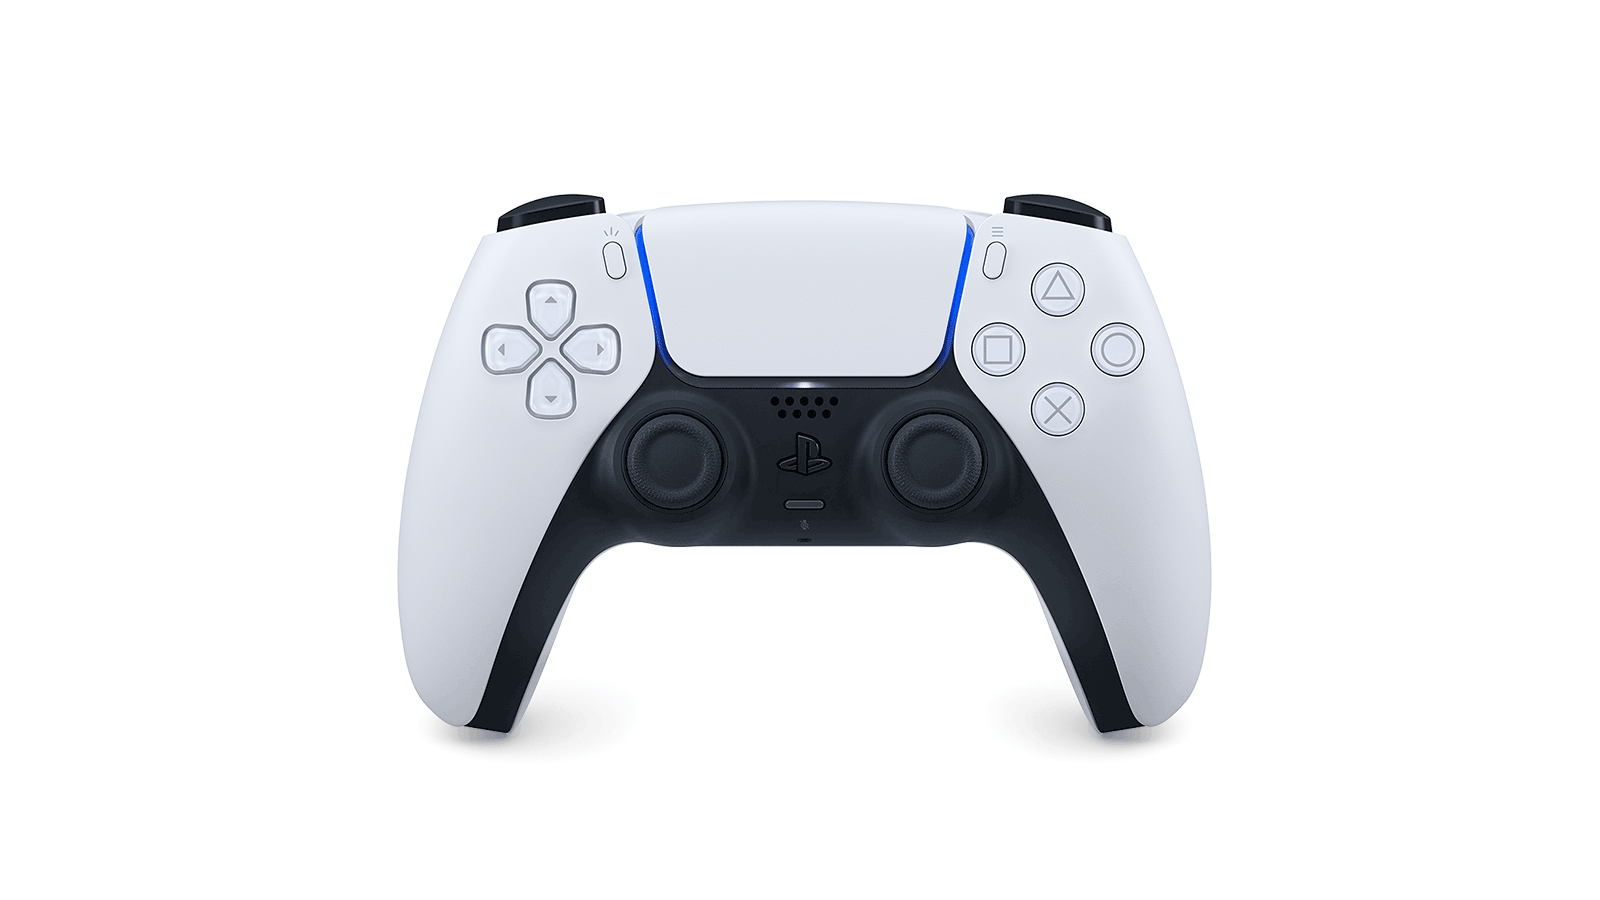
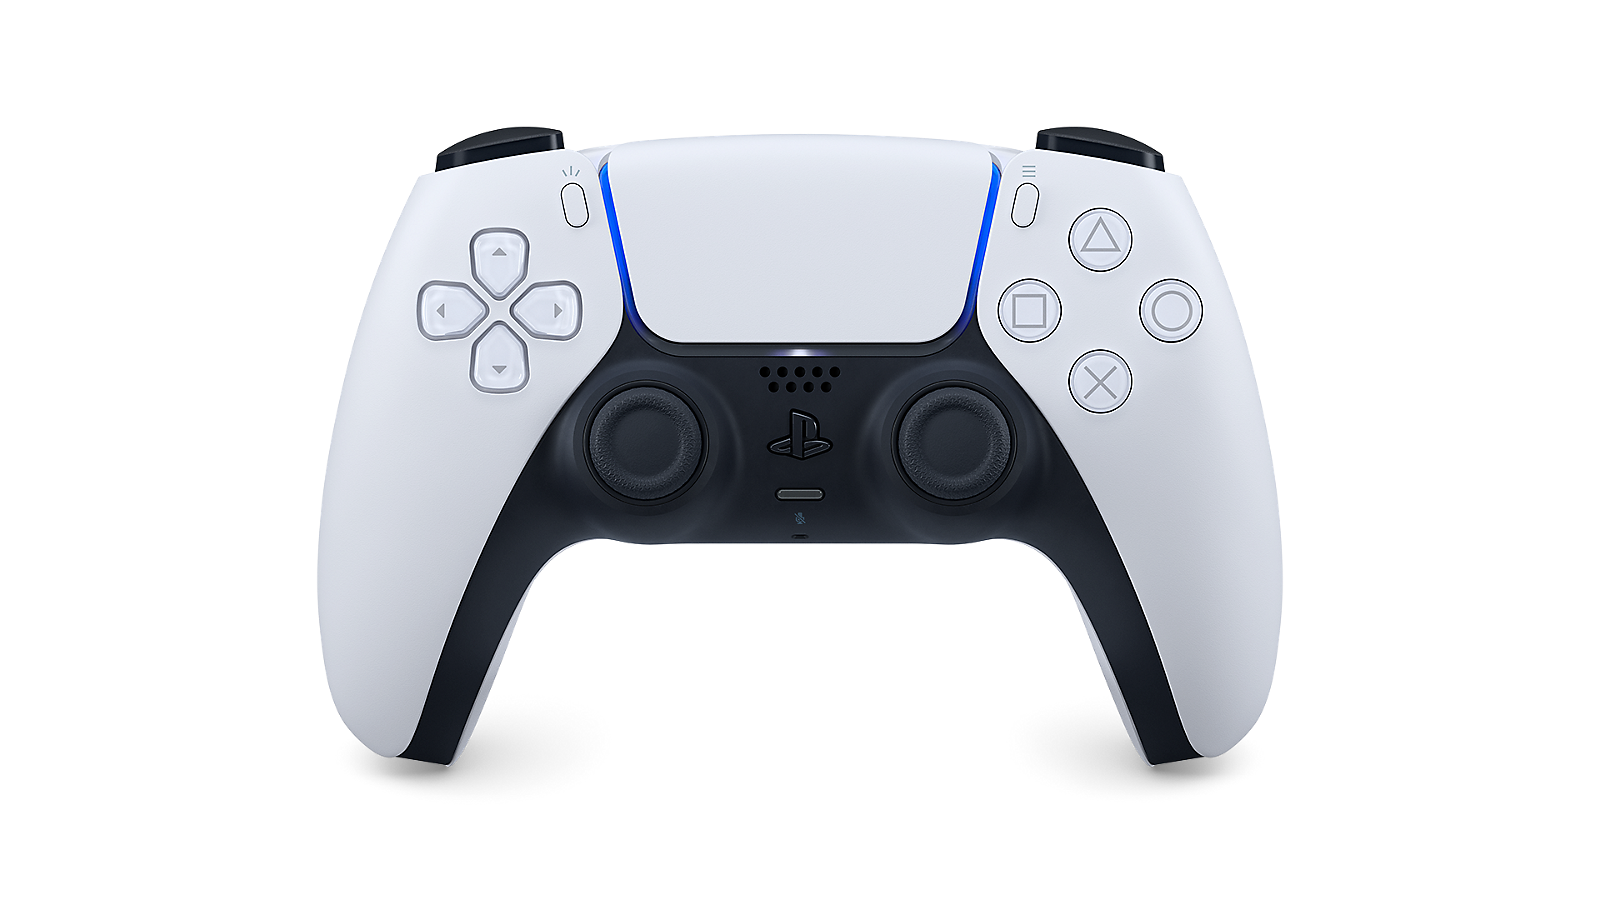
fix(usb): improve controller artwork and trigger scaling

Changed region(s): [[0.1875, 0.1244, 0.8125, 0.8711]]

diff --git a/Sources/GHDS/Views/GamepadArtwork/GamepadArtwork.swift b/Sources/GHDS/Views/GamepadArtwork/GamepadArtwork.swift
@@ -56,23 +56,23 @@ enum GamepadArtworkCatalog {
     private static let dualsense = GamepadArtworkSpec(
         imageName: "dualsense", referenceSize: CGSize(width: 1600, height: 900),
         regions: [
-            .leftStick: CGRect(x: 610, y: 400, width: 125, height: 125),
-            .leftStickCap: CGRect(x: 635, y: 425, width: 75, height: 75),
-            .rightStick: CGRect(x: 875, y: 400, width: 125, height: 125),
-            .rightStickCap: CGRect(x: 900, y: 425, width: 75, height: 75),
-            .dpad: CGRect(x: 475, y: 275, width: 155, height: 155),
-            .faceNorth: CGRect(x: 1030, y: 255, width: 75, height: 75),
-            .faceEast: CGRect(x: 1090, y: 320, width: 75, height: 75),
-            .faceSouth: CGRect(x: 1030, y: 385, width: 75, height: 75),
-            .faceWest: CGRect(x: 965, y: 320, width: 75, height: 75),
-            .shoulderL: CGRect(x: 430, y: 165, width: 110, height: 55),
-            .shoulderR: CGRect(x: 1060, y: 165, width: 110, height: 55),
-            .triggerL: CGRect(x: 450, y: 120, width: 90, height: 55),
-            .triggerR: CGRect(x: 1060, y: 120, width: 90, height: 55),
-            .back: CGRect(x: 585, y: 220, width: 50, height: 65),
-            .start: CGRect(x: 965, y: 220, width: 50, height: 65),
-            .guide: CGRect(x: 760, y: 420, width: 80, height: 80),
-            .touchpad: CGRect(x: 640, y: 200, width: 320, height: 180),
+            .leftStick: CGRect(x: 568, y: 372, width: 148, height: 148),
+            .leftStickCap: CGRect(x: 596, y: 400, width: 92, height: 92),
+            .rightStick: CGRect(x: 884, y: 368, width: 148, height: 148),
+            .rightStickCap: CGRect(x: 912, y: 400, width: 92, height: 92),
+            .dpad: CGRect(x: 408, y: 220, width: 188, height: 188),
+            .faceNorth: CGRect(x: 1064, y: 196, width: 92, height: 92),
+            .faceEast: CGRect(x: 1136, y: 276, width: 92, height: 92),
+            .faceSouth: CGRect(x: 1064, y: 352, width: 92, height: 92),
+            .faceWest: CGRect(x: 988, y: 276, width: 92, height: 92),
+            .shoulderL: CGRect(x: 435, y: 126, width: 130, height: 46),
+            .shoulderR: CGRect(x: 1035, y: 126, width: 130, height: 46),
+            .triggerL: CGRect(x: 435, y: 126, width: 130, height: 46),
+            .triggerR: CGRect(x: 1035, y: 126, width: 130, height: 46),
+            .back: CGRect(x: 540, y: 160, width: 60, height: 76),
+            .start: CGRect(x: 988, y: 156, width: 60, height: 84),
+            .guide: CGRect(x: 748, y: 396, width: 92, height: 92),
+            .touchpad: CGRect(x: 604, y: 136, width: 380, height: 212),
         ])
 
     private static let xboxSeries = GamepadArtworkSpec(

diff --git a/Tests/GHDSUITests/GamepadTriggerRangeTests.swift b/Tests/GHDSUITests/GamepadTriggerRangeTests.swift
@@ -1,0 +1,42 @@
+import Foundation
+import DSCore
+
+func gamepadTriggerRangeTests(_ check: (@autoclosure () -> Bool, String) -> Void) {
+    func snapshot(skin: String, axes: [Float]) -> HIDDeviceSnapshot {
+        let ps = skin == "ps4"
+        return HIDDeviceSnapshot(
+            uniqueID: skin, name: ps ? "Wireless Controller" : "Logitech Dual Action",
+            vendorID: ps ? 0x054C : 0x046D, productID: ps ? 0x05C4 : 0xC216,
+            axes: axes, axisUsages: [0x30, 0x31, 0x32, 0x35, 0x33, 0x34],
+            buttons: 0, buttonCount: 14, povs: [-1], isXbox: !ps,
+            mode: ps ? .directInput : .xinput,
+            polarity: GamepadStickPolarity(xRightIsNegative: false, yUpIsNegative: true),
+            usbLocationID: nil)
+    }
+
+    let ps = snapshot(skin: "ps4", axes: [0.1, -0.2, 0.3, 0.4, -1, 0])
+        .normalizingAnalogTriggers(logicalMins: [0x30: 0, 0x31: 0, 0x32: 0, 0x35: 0, 0x33: 0, 0x34: 0])
+    check(ps.axes == [0.1, -0.2, 0.3, 0.4, 0, 0.5],
+          "PS4 扳机未按为 0、半按为 0.5，四摇杆轴保持不变（得到 \(ps.axes)）")
+    check(ps.triggerAxisRange == .zeroToOne, "PS4 扳机轴记录实际输出量程")
+
+    let xinput = snapshot(skin: "xinput", axes: [0, 0, -1, 1, 0, 0])
+        .normalizingAnalogTriggers(logicalMins: [0x30: -32768, 0x31: -32768, 0x32: 0, 0x35: 0, 0x33: -32768, 0x34: -32768])
+    check(xinput.axes == [0, 0, 0, 1, 0, 0], "XInput 扳机静止为 0、满按为 1")
+    check(xinput.triggerAxisRange == .zeroToOne, "XInput 扳机轴记录实际输出量程")
+
+    let unsignedStick = snapshot(skin: "ps4", axes: [0.1, -0.2, 0.3, -1, 0, 0.4])
+        .normalizingAnalogTriggers(logicalMins: [0x30: -128, 0x31: -128, 0x32: -128, 0x35: -128, 0x33: -128, 0x34: -128])
+    check(unsignedStick.axes == [0.1, -0.2, 0.3, -1, 0, 0.4] && unsignedStick.triggerAxisRange == .signed,
+          "非无符号 HID 量程不得臆造扳机零点")
+
+    let state = GamepadLayout.layout(for: .dualshock4).state(for: GamepadSample(
+        axes: [0, 0, 0, 0, 0, 1], axisUsages: [0x30, 0x31, 0x32, 0x35, 0x33, 0x34],
+        triggerAxisRange: .zeroToOne))
+    check(state.triggerL.depth == 0 && !state.triggerL.pressed, "0…1 扳机静止时不点亮")
+    check(state.triggerR.depth == 1 && state.triggerR.pressed, "0…1 扳机满按深度为 1")
+    let half = GamepadLayout.layout(for: .direwolf4).state(for: GamepadSample(
+        axes: [0, 0, 0.5, 0, 0, 0], axisUsages: [0x30, 0x31, 0x32, 0x35, 0x33, 0x34],
+        triggerAxisRange: .zeroToOne))
+    check(half.triggerL.depth == 0.5 && half.triggerL.pressed, "0…1 扳机保留半按行程")
+}

diff --git a/Sources/DSCore/GamepadProfile.swift b/Sources/DSCore/GamepadProfile.swift
@@ -12,7 +12,7 @@ import Foundation
 
 /// 造型（皮肤）种类：四款原型 + 未识别兜底。
 public enum GamepadSkin: String, CaseIterable, Sendable {
-    case f310          // 罗技 F310（FRC KoP 黑色款；macOS 上只见 D 档 DirectInput）
+    case f310          // 罗技 F310（D 档走 HID，X 档走应用内 XInput reader）
     case extreme3DPro  // 罗技 Extreme 3D Pro 飞行摇杆（T41126）
     case direwolf4     // 飞智冰原狼 4（USB 模式自报 Xbox 360 签名）
     case dualsense     // PS5 DualSense
@@ -127,6 +127,11 @@ public struct GamepadStickPolarity: Sendable, Equatable {
     }
 }
 
+public enum GamepadTriggerRange: String, Sendable {
+    case signed
+    case zeroToOne
+}
+
 /// 从槽位透传的最小输入样本（JoystickCard 现场组装；测试直接构造）。
 public struct GamepadSample: Sendable {
     public var name: String
@@ -139,12 +144,14 @@ public struct GamepadSample: Sendable {
     public var povs: [Int16]
     public var mode: GamepadInputMode
     public var polarity: GamepadStickPolarity
+    public var triggerAxisRange: GamepadTriggerRange
 
     public init(name: String = "", vendorID: Int = 0, productID: Int = 0,
                 axes: [Float], axisUsages: [UInt32], buttons: UInt64 = 0,
                 povs: [Int16] = [], mode: GamepadInputMode = .directInput,
                 polarity: GamepadStickPolarity = GamepadStickPolarity(
-                    xRightIsNegative: false, yUpIsNegative: false)) {
+                    xRightIsNegative: false, yUpIsNegative: false),
+                triggerAxisRange: GamepadTriggerRange = .signed) {
         self.name = name
         self.vendorID = vendorID
         self.productID = productID
@@ -154,6 +161,7 @@ public struct GamepadSample: Sendable {
         self.povs = povs
         self.mode = mode
         self.polarity = polarity
+        self.triggerAxisRange = triggerAxisRange
     }
 }
 
@@ -407,8 +415,10 @@ public struct GamepadLayout: Sendable {
             let v = sample.axes[i]
             return v.isFinite ? max(-1, min(1, v)) : 0
         }
-        /// 归一 -1…+1 → 深度 0…1（扳机量程静止 -1、按满 +1）。
-        func depth(_ v: Float) -> Float { max(0, min(1, (v + 1) / 2)) }
+        func depth(_ v: Float) -> Float {
+            let value = sample.triggerAxisRange == .zeroToOne ? v : (v + 1) / 2
+            return max(0, min(1, value))
+        }
 
         for (pos, number) in face { s.face[pos] = pressed(number) }
         s.shoulderL = pressed(shoulder.l)

diff --git a/Sources/GHDS/HIDInputManager.swift b/Sources/GHDS/HIDInputManager.swift
@@ -19,6 +19,29 @@ struct HIDDeviceSnapshot: Sendable {
     var mode: GamepadInputMode
     var polarity: GamepadStickPolarity
     var usbLocationID: UInt32?
+    var triggerAxisRange: GamepadTriggerRange = .signed
+
+    func normalizingAnalogTriggers(logicalMins: [UInt32: Int32]) -> HIDDeviceSnapshot {
+        guard triggerAxisRange == .signed else { return self }
+        let skin = GamepadProfile.detect(vendorID: vendorID, productID: productID, name: name)
+        let triggerUsages: [UInt32]
+        switch (skin, mode) {
+        case (.dualsense, _), (.dualshock4, _), (.dualshock3, _):
+            triggerUsages = [0x33, 0x34]
+        case (_, .xinput):
+            triggerUsages = [0x32, 0x35]
+        default:
+            return self
+        }
+        var result = self
+        for usage in triggerUsages {
+            guard let index = axisUsages.firstIndex(of: usage), axes.indices.contains(index),
+                  let minimum = logicalMins[usage], minimum >= 0 else { return self }
+            result.axes[index] = max(0, min(1, (axes[index] + 1) / 2))
+        }
+        result.triggerAxisRange = .zeroToOne
+        return result
+    }
 }
 
 @MainActor
@@ -229,14 +252,16 @@ final class HIDInputManager {
                 emittedUsages = record.axisElements.map(\.usage)
             }
 
-            result.append(HIDDeviceSnapshot(
+            let snapshot = HIDDeviceSnapshot(
                 uniqueID: record.uniqueID, name: record.name,
                 vendorID: record.vendorID, productID: record.productID,
                 axes: emittedAxes, axisUsages: emittedUsages,
                 buttons: buttons, buttonCount: max(highestButton, record.buttonElements.count),
                 povs: povs, isXbox: record.isXbox,
                 mode: record.mode, polarity: record.polarity, usbLocationID: record.usbLocationID
-            ))
+            )
+            result.append(snapshot.normalizingAnalogTriggers(logicalMins: Dictionary(
+                uniqueKeysWithValues: record.axisElements.map { ($0.usage, $0.min) })))
         }
         return result
     }

diff --git a/Tests/GHDSUITests/GamepadArtworkTests.swift b/Tests/GHDSUITests/GamepadArtworkTests.swift
@@ -33,4 +33,27 @@ func gamepadArtworkTests(_ check: (@autoclosure () -> Bool, String) -> Void) {
           GamepadArtworkCatalog.spec(for: .direwolf4).imageName == "direwolf4" &&
           GamepadArtworkCatalog.spec(for: .extreme3DPro).imageName == "extreme3dpro",
           "罗技与冰原狼使用各自实机资源，Extreme 3D Pro 使用飞行摇杆资源")
+
+    let calibrated = GamepadArtworkCatalog.spec(for: .dualsense)
+    let expected: [GamepadArtworkRegion: CGRect] = [
+        .leftStick: CGRect(x: 568, y: 372, width: 148, height: 148),
+        .leftStickCap: CGRect(x: 596, y: 400, width: 92, height: 92),
+        .rightStick: CGRect(x: 884, y: 368, width: 148, height: 148),
+        .rightStickCap: CGRect(x: 912, y: 400, width: 92, height: 92),
+        .dpad: CGRect(x: 408, y: 220, width: 188, height: 188),
+        .faceNorth: CGRect(x: 1064, y: 196, width: 92, height: 92),
+        .faceEast: CGRect(x: 1136, y: 276, width: 92, height: 92),
+        .faceSouth: CGRect(x: 1064, y: 352, width: 92, height: 92),
+        .faceWest: CGRect(x: 988, y: 276, width: 92, height: 92),
+        .shoulderL: CGRect(x: 435, y: 126, width: 130, height: 46),
+        .shoulderR: CGRect(x: 1035, y: 126, width: 130, height: 46),
+        .triggerL: CGRect(x: 435, y: 126, width: 130, height: 46),
+        .triggerR: CGRect(x: 1035, y: 126, width: 130, height: 46),
+        .back: CGRect(x: 540, y: 160, width: 60, height: 76),
+        .start: CGRect(x: 988, y: 156, width: 60, height: 84),
+        .guide: CGRect(x: 748, y: 396, width: 92, height: 92),
+        .touchpad: CGRect(x: 604, y: 136, width: 380, height: 212),
+    ]
+    check(calibrated.regions == expected,
+          "清晰无底座 DualSense 的控件标定与已验证的像素匹配一致")
 }

diff --git a/Sources/GHDS/DSModel.swift b/Sources/GHDS/DSModel.swift
@@ -1144,6 +1144,7 @@ struct JoystickSlot: Identifiable {
     var mode: GamepadInputMode
     var polarity: GamepadStickPolarity
     var usbLocationID: UInt32?
+    var triggerAxisRange: GamepadTriggerRange
 
     var data: JoystickData {
         JoystickData(axes: axes, buttonCount: buttonCount, buttons: buttons, povs: povs)
@@ -1175,6 +1176,7 @@ struct JoystickSlot: Identifiable {
         self.mode = device.mode
         self.polarity = device.polarity
         self.usbLocationID = device.usbLocationID
+        self.triggerAxisRange = device.triggerAxisRange
     }
 
     mutating func apply(_ device: HIDDeviceSnapshot) {
@@ -1186,6 +1188,7 @@ struct JoystickSlot: Identifiable {
         mode = device.mode
         polarity = device.polarity
         usbLocationID = device.usbLocationID
+        triggerAxisRange = device.triggerAxisRange
     }
 }
 
@@ -1195,7 +1198,8 @@ extension GamepadSample {
         self.init(name: slot.name, vendorID: slot.vendorID, productID: slot.productID,
                   axes: slot.axes, axisUsages: slot.axisUsages,
                   buttons: slot.buttons, povs: slot.povs,
-                  mode: slot.mode, polarity: slot.polarity)
+                  mode: slot.mode, polarity: slot.polarity,
+                  triggerAxisRange: slot.triggerAxisRange)
     }
 }
 

diff --git a/Tests/GHDSUITests/F310XInputReportTests.swift b/Tests/GHDSUITests/F310XInputReportTests.swift
@@ -7,7 +7,7 @@ func f310XInputReportTests(_ check: (@autoclosure () -> Bool, String) -> Void) {
         check(false, "XInput 中立包可解析")
         return
     }
-    check(neutral.axes == [0, 0, -1, -1, 0, 0], "XInput 中立轴与双扳机静止值")
+    check(neutral.axes == [0, 0, 0, 0, 0, 0], "XInput 中立轴与双扳机静止值均为 0")
     check(neutral.triggerDepthL == 0 && neutral.triggerDepthR == 0, "XInput 中立扳机深度为 0")
     check(neutral.buttons == 0 && neutral.pov == -1, "XInput 中立按钮与 POV")
 
@@ -44,7 +44,7 @@ func f310XInputReportTests(_ check: (@autoclosure () -> Bool, String) -> Void) {
     check(abs(axes.axes[5] + 0.5) < 2e-5, "XInput RY 归一后取反（得到 \(axes.axes[5])）")
     check(abs(axes.triggerDepthL - (128.0 / 255.0)) < 1e-6, "XInput LT 保留真实中间深度")
     check(axes.triggerDepthR == 1 && axes.axes[3] == 1, "XInput RT 满行程")
-    check(abs(axes.axes[2] - ((128.0 / 255.0) * 2 - 1)) < 1e-6, "XInput LT 输出轴与深度一致")
+    check(abs(axes.axes[2] - (128.0 / 255.0)) < 1e-6, "XInput LT 输出轴与深度一致")
 
     check(F310XInputReport.parse(Array(neutralBytes.prefix(19))) == nil, "XInput 短包拒绝")
     var wrongType = neutralBytes

diff --git a/Sources/GHDS/XInputUSB/F310XInputReport.swift b/Sources/GHDS/XInputUSB/F310XInputReport.swift
@@ -8,7 +8,7 @@ struct F310XInputReport: Equatable, Sendable {
     var triggerDepthR: Float
 
     static let neutral = F310XInputReport(
-        axes: [0, 0, -1, -1, 0, 0], buttons: 0, pov: -1,
+        axes: [0, 0, 0, 0, 0, 0], buttons: 0, pov: -1,
         triggerDepthL: 0, triggerDepthR: 0)
 
     static func parse(_ bytes: [UInt8]) -> F310XInputReport? {
@@ -35,7 +35,7 @@ struct F310XInputReport: Equatable, Sendable {
         let rightX = normalized(int16(bytes, at: 10))
         let rightY = normalized(int16(bytes, at: 12))
         return F310XInputReport(
-            axes: [leftX, -leftY, depthL * 2 - 1, depthR * 2 - 1, rightX, -rightY],
+            axes: [leftX, -leftY, depthL, depthR, rightX, -rightY],
             buttons: buttons, pov: pov,
             triggerDepthL: depthL, triggerDepthR: depthR)
     }

diff --git a/Sources/GHDS/XInputUSB/F310XInputManager.swift b/Sources/GHDS/XInputUSB/F310XInputManager.swift
@@ -173,7 +173,7 @@ private final class F310XInputSession {
             buttons: report.buttons, buttonCount: 11, povs: [report.pov], isXbox: true,
             mode: .xinput,
             polarity: GamepadStickPolarity(xRightIsNegative: false, yUpIsNegative: true),
-            usbLocationID: locationID)
+            usbLocationID: locationID, triggerAxisRange: .zeroToOne)
     }
 
     func stop() {

diff --git a/Tests/GHDSUITests/main.swift b/Tests/GHDSUITests/main.swift
@@ -351,6 +351,7 @@ struct UIStateTests {
         f310XInputReportTests(check)
         f310XInputLifecycleTests(check)
         gamepadArtworkTests(check)
+        gamepadTriggerRangeTests(check)
 
         // ③ Mac 状态重采样在后台：主线程睡眠（不跑 runloop）期间采样仍推进
         let sampler = MacStatusMonitor.BackgroundSampler()

diff --git a/docs/gamepad-artwork.md b/docs/gamepad-artwork.md
@@ -12,7 +12,7 @@
 
 | 资源 | 型号/外观 | 来源 | 入库尺寸 | SHA-256 |
 |---|---|---|---|---|
[5 lines of base64/hex data omitted]
@@ -22,11 +22,11 @@ Xbox 图片只做边缘白底透明化与透明边界裁切；手柄本体、按
 
 ## 标定方法与主要锚点
 
-使用 `.build/grid-overlay.swift` 在原图上叠加 50/100 像素网格，按原始像素记录控件边界。生产坐标表位于 `Sources/GHDS/Views/GamepadArtwork/GamepadArtwork.swift`，渲染时统一使用 `GamepadArtworkSpec.region(_:in:)` 的 aspect-fit 变换。
+其他素材使用 `.build/grid-overlay.swift` 辅助标定。DualSense 清晰版使用归一化相关的局部模板匹配定位主体与摇杆帽，逐像素复核相关性；肩键从 alpha>128 且亮度<96 的真实连通区域提取。生产坐标表位于 `Sources/GHDS/Views/GamepadArtwork/GamepadArtwork.swift`，渲染时统一使用 `GamepadArtworkSpec.region(_:in:)` 的 aspect-fit 变换，全部锚点由 `GamepadArtworkTests` 固定回归。
 
 | 资源 | 左摇杆井（x,y,w,h） | 右摇杆井（x,y,w,h） | 方向键区（x,y,w,h） | 触控板 / 中央标志区（x,y,w,h） |
 |---|---|---|---|---|
-| DualSense | 610,400,125,125 | 875,400,125,125 | 475,275,155,155 | 640,200,320,180 |
+| DualSense | 568,372,148,148 | 884,368,148,148 | 408,220,188,188 | 604,136,380,212 |
 | Xbox Series | 190,135,140,145 | 565,290,145,150 | 310,295,145,150 | 465,75,90,90 |
 | F310 | 210,290,135,140 | 405,290,135,140 | 110,165,145,145 | 340,185,80,65 |
 | Direwolf 4 | 360,150,170,190 | 745,310,185,220 | 450,340,180,185 | 720,95,100,100 |

diff --git a/docs/gamepad-xinput.md b/docs/gamepad-xinput.md
@@ -13,7 +13,7 @@
 
 - `byte[2]`：POV、Start、Back、L3、R3。
 - `byte[3]`：LB、RB、Guide、A、B、X、Y。
-- `byte[4]` / `byte[5]`：LT / RT 的 0…255 真实深度；输出轴映射到静止 -1、按满 +1。
+- `byte[4]` / `byte[5]`：LT / RT 的 0…255 真实深度；输出轴映射到静止 0、按满 1，并保留中间行程。
 - `byte[6…13]`：LX、LY、RX、RY 的小端 Int16。X 右为正，Y 从 XInput 上正转换为 FRC 上负。
 
 按钮映射为 A/B/X/Y=1…4、LB/RB=5/6、Back/Start=7/8、L3/R3=9/10、Guide=11。相反 POV 同时置位、短包、未知类型与错误长度均拒绝。
@@ -24,7 +24,7 @@
 
 - 按 USB 描述符选择 interface 0 的 interrupt IN/OUT pipe，不硬编码端点地址。
 - 读写在每设备独立串行队列异步执行；主线程只读取加锁快照，不执行同步 `ReadPipe`。
-- 超过 100ms 没有有效包，六轴立即回中（双扳机 -1）、按钮清零、POV=-1；原有 0.5s 设备移除防抖继续处理列表移除。
+- 超过 100ms 没有有效包，六轴立即回中（双扳机 0）、按钮清零、POV=-1；原有 0.5s 设备移除防抖继续处理列表移除。
 - 读错、拔线、终止和退出先清零，再销毁 interface user client；inactive 后不再调度新读包。
 - 同 USB location 同时出现时优先完整 XInput reader，避免 HID 与原始 USB 形成重复槽位。
 
